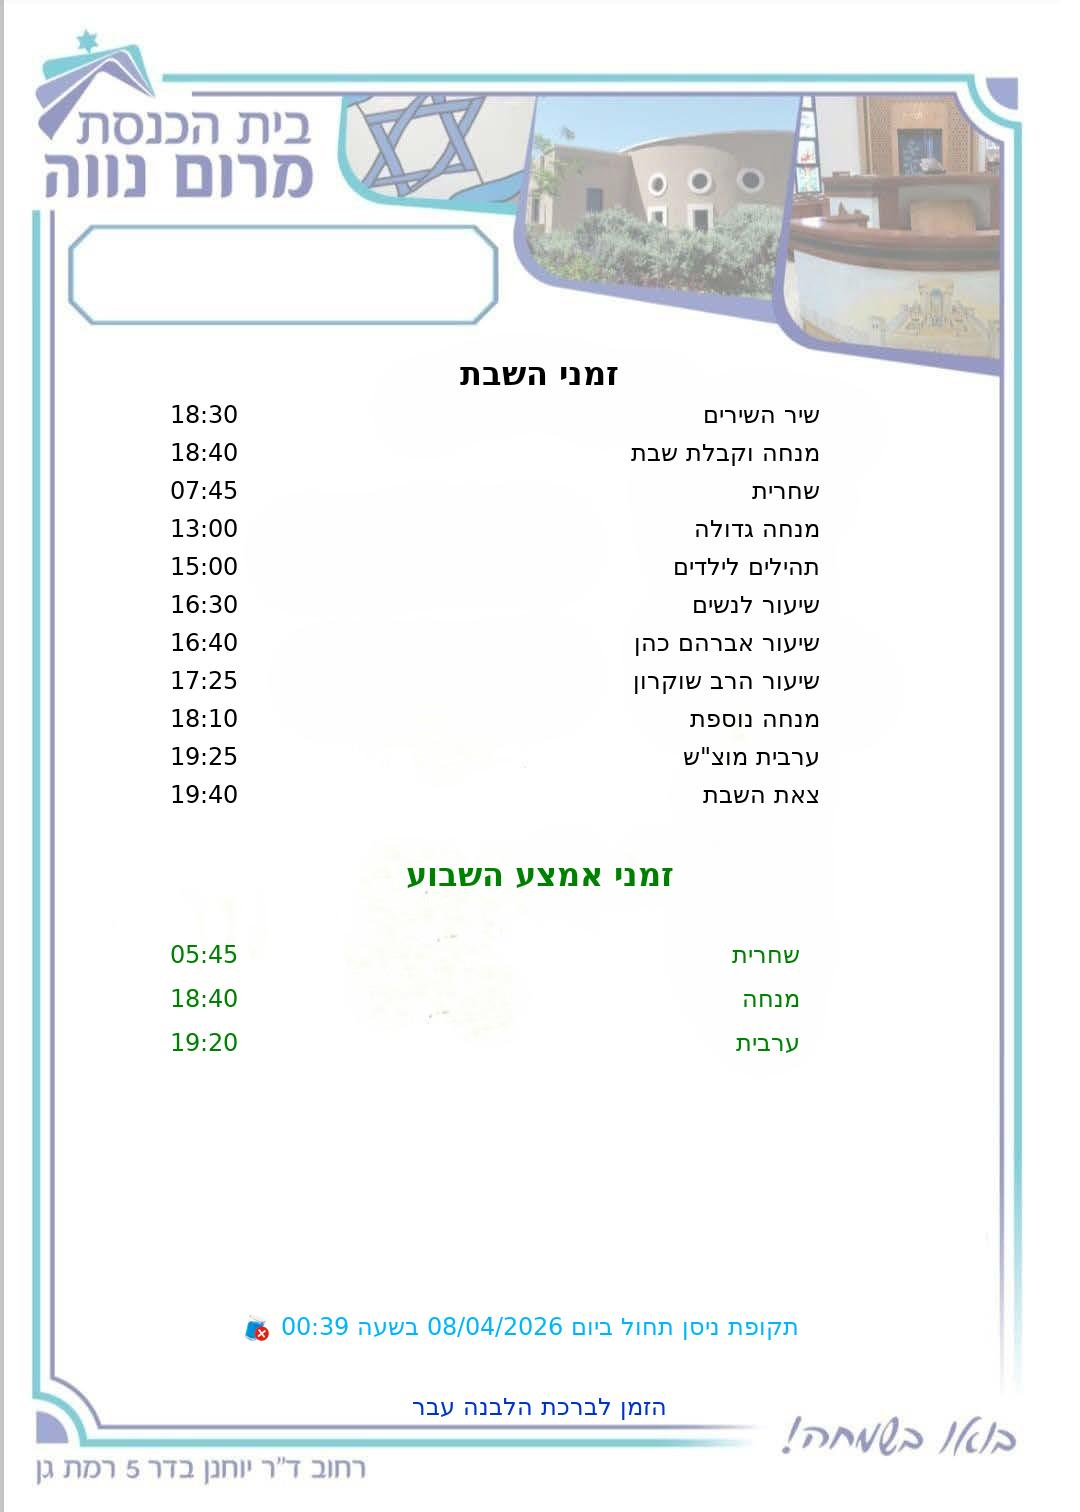
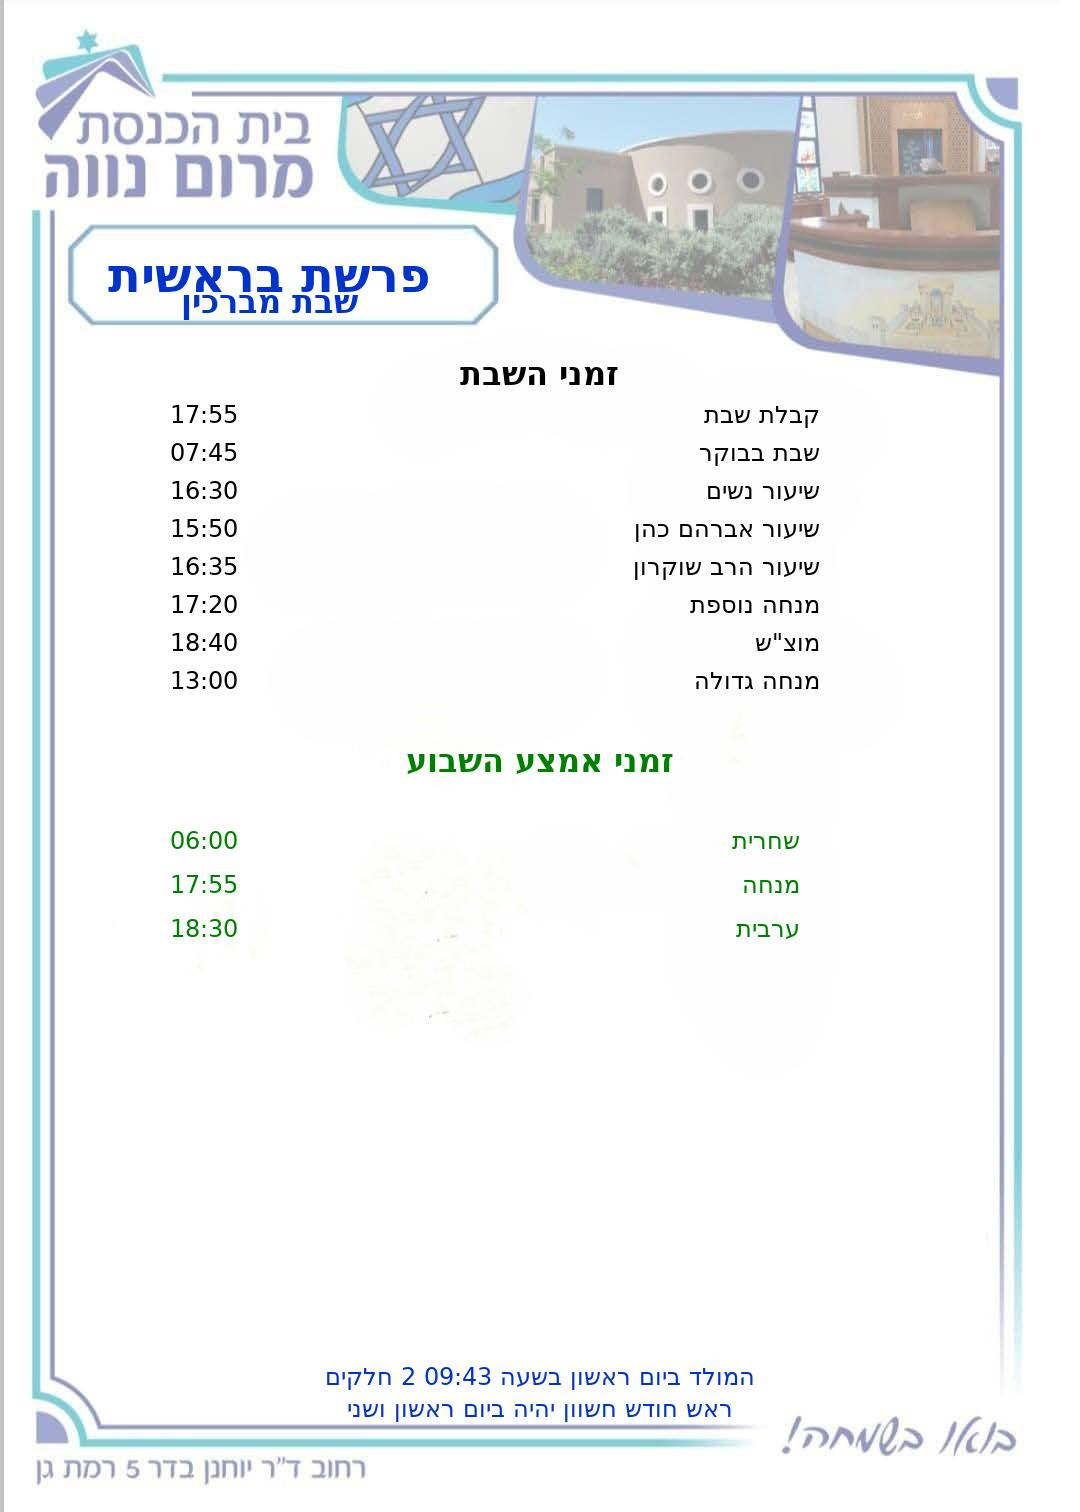
ABACUS

diff --git a/ABACUS/config.html b/ABACUS/config.html
@@ -134,7 +134,10 @@
 
     function initMap() {
       map = L.map('map').setView([31.7683, 35.2137], 12); // Jérusalem par défaut
-      L.tileLayer('https://{s}.tile.openstreetmap.org/{z}/{x}/{y}.png', {attribution: '© OpenStreetMap contributors'}).addTo(map);
+      L.tileLayer('https://server.arcgisonline.com/ArcGIS/rest/services/World_Street_Map/MapServer/tile/{z}/{y}/{x}', {
+    maxZoom: 19,
+    attribution: 'Tiles © Esri'
+}).addTo(map);
       map.on('click', function(e) {
         const lat = e.latlng.lat.toFixed(6);
         const lng = e.latlng.lng.toFixed(6);

diff --git a/ABACUS/main.py b/ABACUS/main.py
@@ -66,10 +66,11 @@ def get_next_friday_saturday_tuesday(today=None):
     tuesday = today + timedelta(days=days_to_tuesday)
     return friday, saturday, tuesday
 
-def get_zmanim_for_day(lat, lon, date):
+def get_zmanim_for_day(lat, lon, date, tzid="Asia/Jerusalem"):
     url = (
         f"https://www.hebcal.com/zmanim?cfg=json"
         f"&latitude={lat}&longitude={lon}"
+        f"&tzid={tzid}"
         f"&date={date.strftime('%Y-%m-%d')}"
     )
     try:
@@ -81,19 +82,19 @@ def get_zmanim_for_day(lat, lon, date):
         print(f"Erreur lors de la récupération des zmanim pour {date.strftime('%A %Y-%m-%d')}: {e}")
         return {}
 
-def get_all_zmanim(lat, lon, today=None):
+def get_all_zmanim(lat, lon, today=None, tzid="Asia/Jerusalem"):
     friday, saturday, tuesday = get_next_friday_saturday_tuesday(today)
     zmanim = {}
 
-    times_fri = get_zmanim_for_day(lat, lon, friday)
+    times_fri = get_zmanim_for_day(lat, lon, friday, tzid)
     if 'candle_lighting' in times_fri:
         zmanim['candle_lighting'] = datetime.fromisoformat(times_fri['candle_lighting'])
 
-    times_sat = get_zmanim_for_day(lat, lon, saturday)
+    times_sat = get_zmanim_for_day(lat, lon, saturday, tzid)
     if 'tzeit85deg' in times_sat:
         zmanim['fin_shabbat'] = datetime.fromisoformat(times_sat['tzeit85deg'])
 
-    times_tue = get_zmanim_for_day(lat, lon, tuesday)
+    times_tue = get_zmanim_for_day(lat, lon, tuesday, tzid)
     if 'sunset' in times_tue:
         zmanim['shkiya'] = datetime.fromisoformat(times_tue['sunset'])
 
@@ -563,7 +564,10 @@ def main():
     lon = float(config['longitude'])
     print(f"Localisation: {config.get('nom_communaute', 'Communauté')} ({lat}, {lon})")
     print("\n--- Récupération des horaires halakhiques ---")
-    zmanim = get_all_zmanim(lat, lon, date_test)
+    tzid = config.get('timezone', 'Asia/Jerusalem')
+    print(f"Localisation: {config.get('nom_communaute', 'Communauté')} ({lat}, {lon}) - Timezone: {tzid}")
+    print("\n--- Récupération des horaires halakhiques ---")
+    zmanim = get_all_zmanim(lat, lon, date_test, tzid)
     print(zmanim)
     print("\n--- Calcul des horaires des activités ---")
     horaires_activites = []
